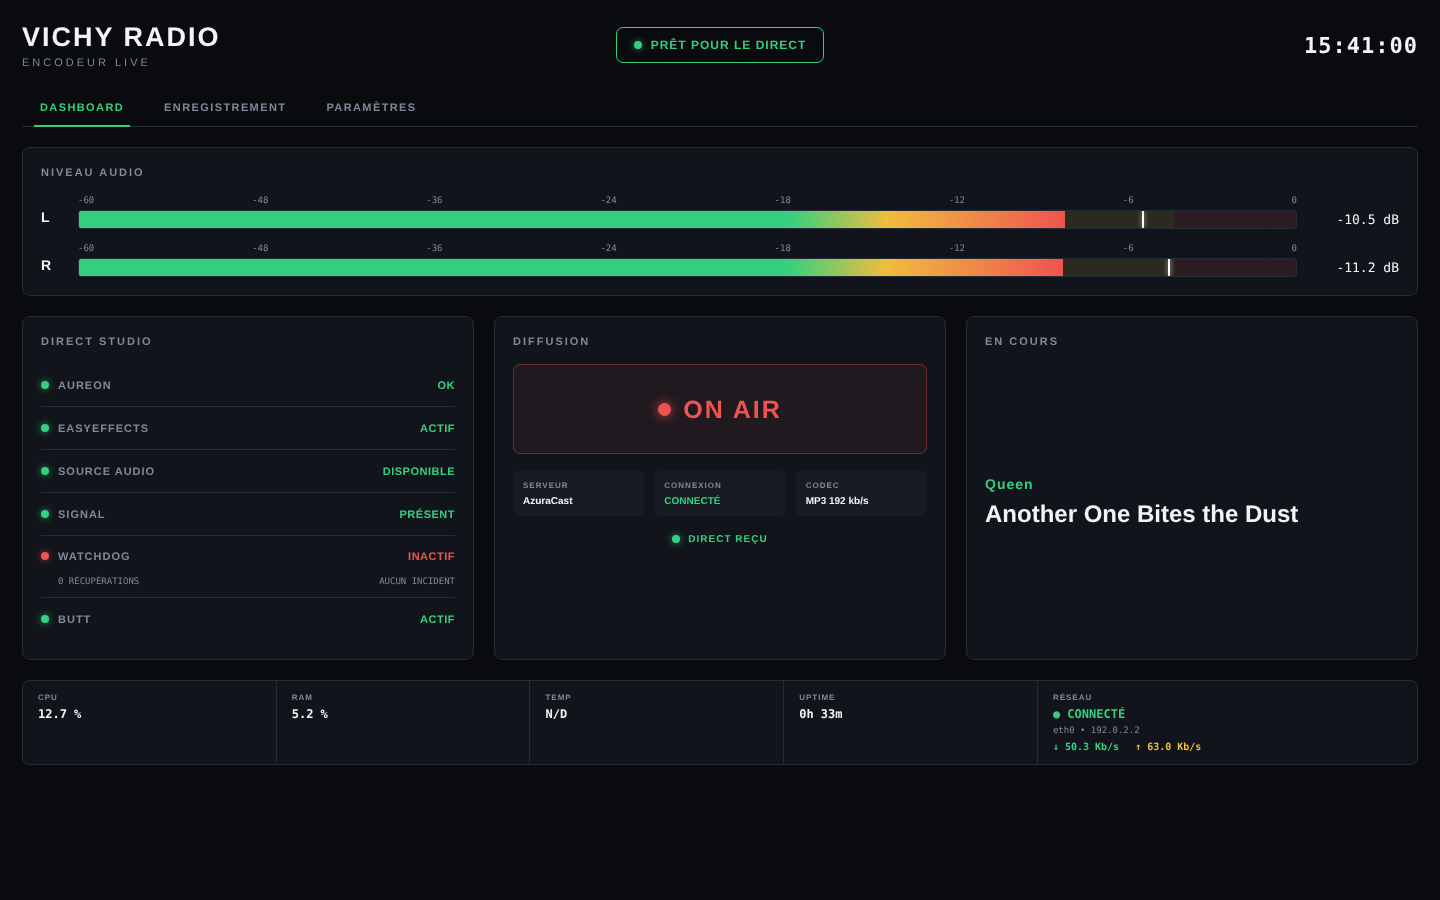
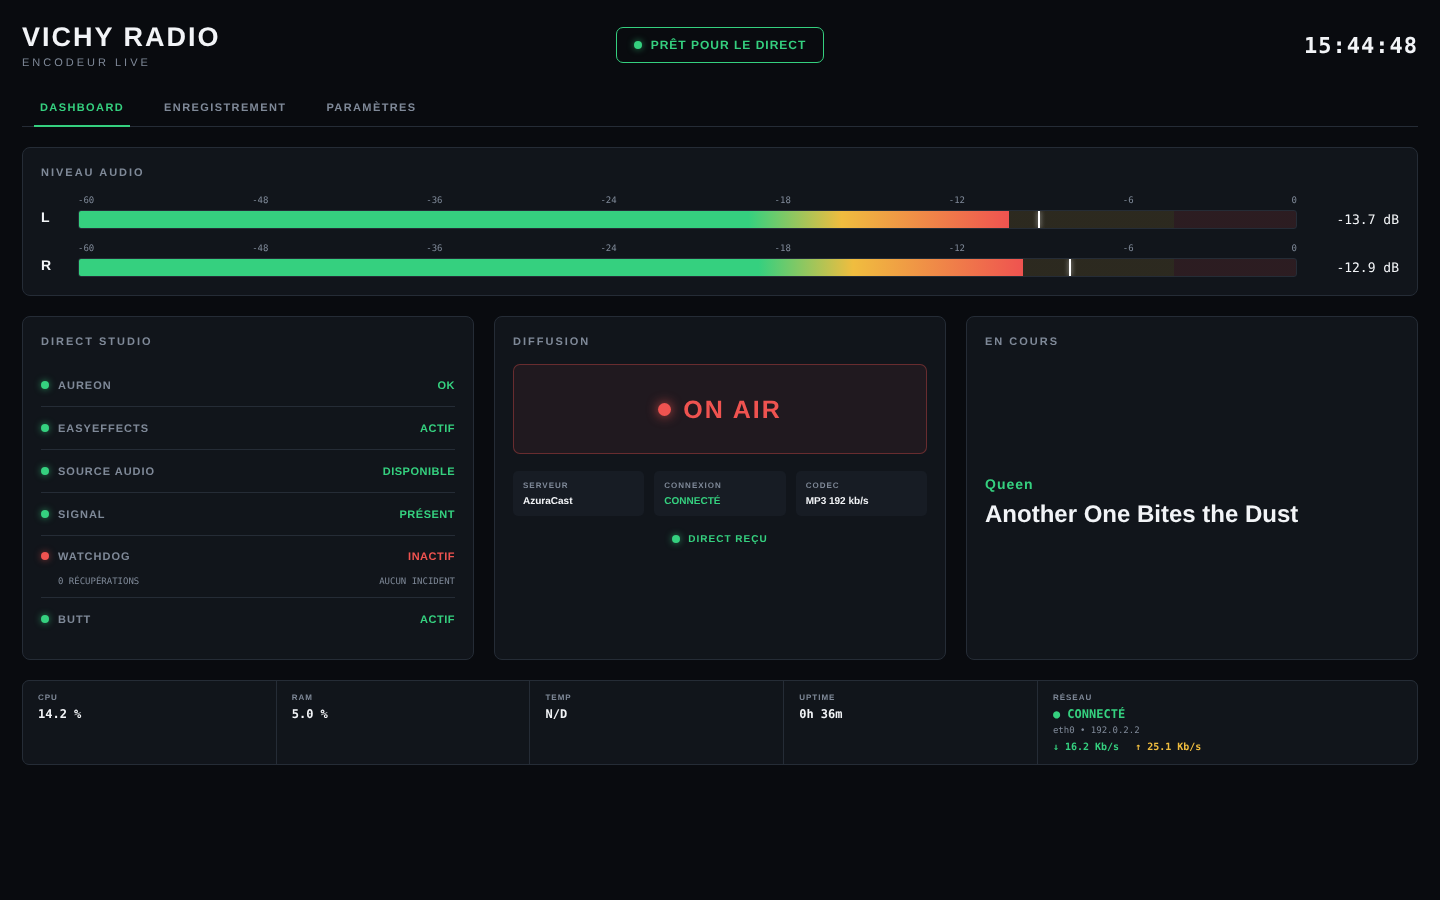
fix(dev): simuler la forme d'onde et utiliser le dossier d'enregistrement du serveur
Claude-Session: https://claude.ai/code/session_01Fa5mZsoXZfHTTin8uziNFs

Changed region(s): [[0.5312, 0.2178, 0.75, 0.3111], [0.9375, 0.0311, 1.0, 0.0622]]

diff --git a/VichyRadio.EncoderDashboard/templates/index.html b/VichyRadio.EncoderDashboard/templates/index.html
@@ -695,7 +695,7 @@
                         <input
                             type="text"
                             id="recording-directory"
-                            value="/home/vichyradio/recordings/manual"
+                            value="{{ default_recording_directory }}"
                             autocomplete="off"
                         >
 

diff --git a/VichyRadio.EncoderDashboard/services/audio.py b/VichyRadio.EncoderDashboard/services/audio.py
@@ -1,5 +1,7 @@
+import math
 import random
 import subprocess
+import time
 
 from config import IS_DEV
 
@@ -145,4 +147,54 @@ def get_audio_status():
 
         "source_available":
             levels["source_available"]
+    }
+
+
+# ============================================================
+# FORME D'ONDE SIMULÉE (MODE DEV)
+# ============================================================
+
+# Mêmes caractéristiques que services/audio_meter.py :
+# 300 blocs de 960 frames à 48 kHz, soit 20 ms par point.
+DEV_WAVEFORM_POINTS = 300
+DEV_CHUNK_SECONDS = 0.02
+
+
+def _dev_amplitude(index, channel):
+
+    # Bruit stable pour un index donné : la forme d'onde défile
+    # d'un appel à l'autre au lieu d'être redessinée au hasard.
+    noise = random.Random(
+        index * 2 + channel
+    ).uniform(0.4, 1.0)
+
+    envelope = 0.5 + 0.5 * math.sin(index / 25)
+
+    return round(
+        0.002 + 0.06 * envelope * noise,
+        6
+    )
+
+
+def get_dev_waveform():
+
+    last_index = int(
+        time.time() / DEV_CHUNK_SECONDS
+    )
+
+    return {
+        "source_available": True,
+        "sample_rate": 48000,
+        "chunk_frames": 960,
+
+        "points": [
+            {
+                "left": _dev_amplitude(index, 0),
+                "right": _dev_amplitude(index, 1)
+            }
+            for index in range(
+                last_index - DEV_WAVEFORM_POINTS + 1,
+                last_index + 1
+            )
+        ]
     }

diff --git a/VichyRadio.EncoderDashboard/app.py b/VichyRadio.EncoderDashboard/app.py
@@ -2,7 +2,10 @@ from flask import Flask, render_template, jsonify, request
 
 from config import MODE, HOST, PORT, DEBUG
 
-from services.audio import get_audio_status
+from services.audio import (
+    get_audio_status,
+    get_dev_waveform
+)
 from services.audio_meter import (
     get_audio_levels,
     get_waveform
@@ -19,6 +22,7 @@ from services.watchdog import (
     get_watchdog_status
 )
 from services.recording import (
+    DEFAULT_DIRECTORY,
     get_recording_status,
     start_recording,
     pause_recording,
@@ -59,7 +63,10 @@ def require_json_post():
 
 @app.route("/")
 def index():
-    return render_template("index.html")
+    return render_template(
+        "index.html",
+        default_recording_directory=DEFAULT_DIRECTORY
+    )
 
 
 # ---------------------------------------------------------------------------
@@ -85,6 +92,11 @@ def audio():
 
 @app.route("/api/audio/waveform")
 def audio_waveform():
+
+    if MODE == "DEV":
+        return jsonify(
+            get_dev_waveform()
+        )
 
     return jsonify(
         get_waveform()

diff --git a/VichyRadio.EncoderDashboard/tests/test_dev_simulation.py b/VichyRadio.EncoderDashboard/tests/test_dev_simulation.py
@@ -1,0 +1,28 @@
+import pytest
+
+from app import app
+from services.recording import DEFAULT_DIRECTORY
+
+
+@pytest.fixture
+def client():
+    app.config["TESTING"] = True
+
+    return app.test_client()
+
+
+def test_forme_onde_simulee_en_dev(client):
+    result = client.get("/api/audio/waveform").get_json()
+
+    assert result["source_available"]
+    assert len(result["points"]) == 300
+    assert all(
+        0 < point["left"] < 1 and 0 < point["right"] < 1
+        for point in result["points"]
+    )
+
+
+def test_page_utilise_dossier_par_defaut_du_serveur(client):
+    html = client.get("/").get_data(as_text=True)
+
+    assert f'value="{DEFAULT_DIRECTORY}"' in html

diff --git a/VichyRadio.EncoderDashboard/scripts/screenshots.py b/VichyRadio.EncoderDashboard/scripts/screenshots.py
@@ -85,11 +85,6 @@ def main():
             _capture(page, "dashboard")
 
             page.click('[data-page="recording-page"]')
-            page.fill(
-                "#recording-directory",
-                str(FAKE_HOME / "recordings" / "manual")
-            )
-            page.locator("#recording-directory").blur()
             _capture(page, "enregistrement")
 
             page.click("#recording-directory-browse")

diff --git a/README.md b/README.md
@@ -120,7 +120,7 @@ sudo apt install python3 python3-venv ffmpeg pipewire-pulse easyeffects usbutils
 
 ### Poste de développement (mode DEV)
 
-Seul **Python 3.13** est nécessaire. En mode DEV, l'audio, le flux et le titre en cours sont simulés.
+Seul **Python 3.13** est nécessaire. En mode DEV, l'audio (niveaux et forme d'onde), le flux et le titre en cours sont simulés.
 
 ---
 
